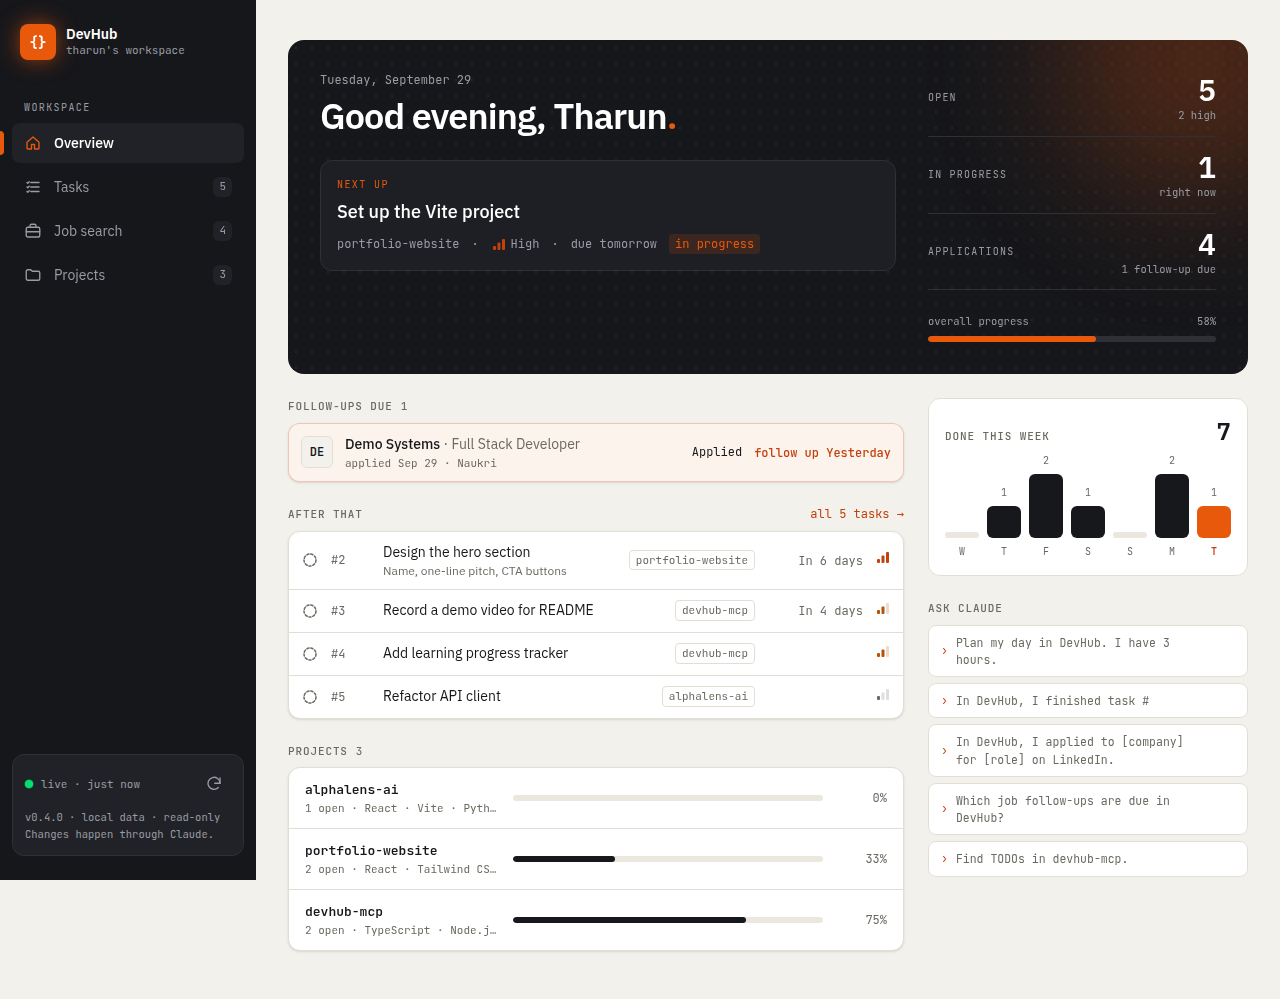
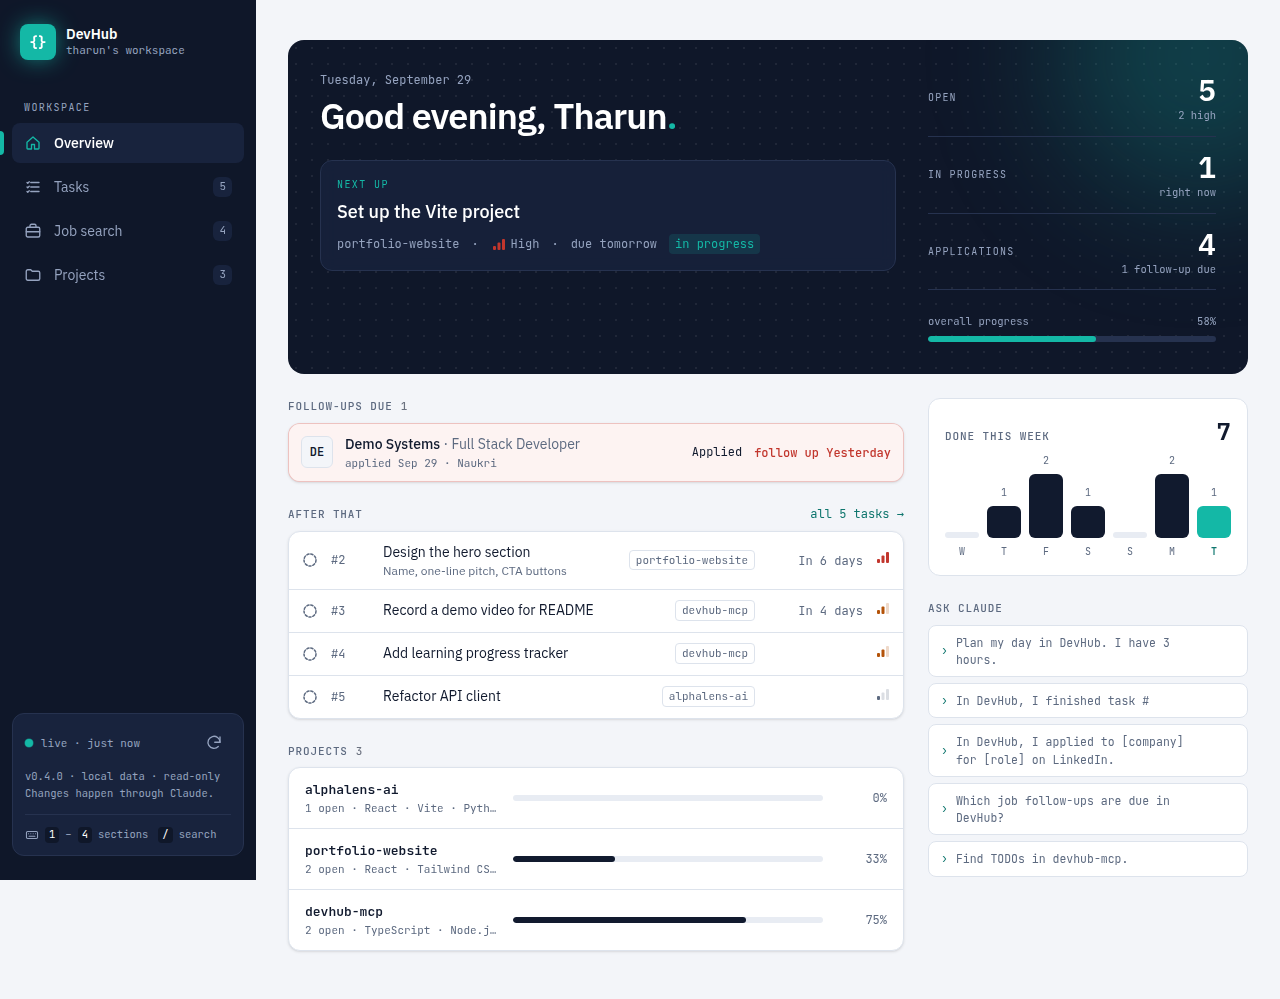
feat: navy and teal theme, task search and keyboard shortcuts
- Midnight-navy sidebar and hero, teal accent, cool light workspace
- Tasks page: search box (title, description or #id) and project filter chips
- Keyboard shortcuts: 1-4 switch sections, / focuses task search, r refreshes

Claude-Session: https://claude.ai/code/session_01KxsoT77UKyQfGDY82P46uu

diff --git a/dashboard/src/components/TaskList.tsx b/dashboard/src/components/TaskList.tsx
@@ -1,6 +1,7 @@
+import { useState } from "react";
 import type { Task, TaskStatus } from "../types";
 import { Due, Empty, Priority, SectionLabel, Tag } from "./ui";
-import { StatusDone, StatusProgress, StatusTodo } from "./icons";
+import { IconSearch, StatusDone, StatusProgress, StatusTodo } from "./icons";
 
 const STATUS_ICON: Record<Exclude<TaskStatus, "archived">, { icon: typeof StatusTodo; color: string }> = {
   todo: { icon: StatusTodo, color: "text-dim" },
@@ -39,21 +40,77 @@ interface Props {
   doneTasks: Task[];
 }
 
-// Issue-tracker style: grouped rows instead of Kanban columns
+// Issue-tracker style: grouped rows, with a search box and project filter chips
 export function TaskList({ pendingTasks, doneTasks }: Props) {
+  const [query, setQuery] = useState("");
+  const [project, setProject] = useState<string | null>(null);
+
+  const projectNames = [...new Set([...pendingTasks, ...doneTasks].map((t) => t.projectName))].sort();
+  const needle = query.trim().toLowerCase();
+  const matches = (task: Task) =>
+    (project === null || task.projectName === project) &&
+    (needle === "" ||
+      task.title.toLowerCase().includes(needle) ||
+      (task.description ?? "").toLowerCase().includes(needle) ||
+      `#${task.id}` === needle);
+
   const groups = [
-    { key: "in_progress", label: "In progress", tasks: pendingTasks.filter((t) => t.status === "in_progress") },
-    { key: "todo", label: "To do", tasks: pendingTasks.filter((t) => t.status === "todo") },
+    { key: "in_progress", label: "In progress", tasks: pendingTasks.filter((t) => t.status === "in_progress" && matches(t)) },
+    { key: "todo", label: "To do", tasks: pendingTasks.filter((t) => t.status === "todo" && matches(t)) },
     {
       key: "done",
       label: "Recently done",
-      tasks: [...doneTasks].sort((a, b) => b.updatedAt.localeCompare(a.updatedAt)).slice(0, 8),
+      tasks: [...doneTasks]
+        .filter(matches)
+        .sort((a, b) => b.updatedAt.localeCompare(a.updatedAt))
+        .slice(0, 8),
     },
   ];
+  const filtering = needle !== "" || project !== null;
 
   return (
     <div className="space-y-6">
-      {groups.map((group) => (
+      <div className="flex flex-col gap-3 sm:flex-row sm:items-center">
+        <label className="relative block sm:w-72">
+          <span className="sr-only">Search tasks</span>
+          <IconSearch className="pointer-events-none absolute top-1/2 left-3 -translate-y-1/2 text-dim" width={16} height={16} />
+          <input
+            id="task-search"
+            type="search"
+            value={query}
+            onChange={(event) => setQuery(event.target.value)}
+            placeholder="Search tasks or #id"
+            className="w-full rounded-lg border border-line bg-panel py-2 pr-3 pl-9 text-sm shadow-sm outline-none placeholder:text-dim focus:border-accent focus:ring-2 focus:ring-accent/20"
+          />
+        </label>
+        <div className="flex flex-wrap gap-1.5" role="group" aria-label="Filter by project">
+          {[null, ...projectNames].map((name) => (
+            <button
+              key={name ?? "all"}
+              type="button"
+              onClick={() => setProject(name)}
+              aria-pressed={project === name}
+              className={`rounded-full border px-3 py-1 font-mono text-[11.5px] transition ${
+                project === name
+                  ? "border-night bg-night text-white"
+                  : "border-line bg-panel text-dim hover:border-ink/30 hover:text-ink"
+              }`}
+            >
+              {name ?? "all projects"}
+            </button>
+          ))}
+        </div>
+      </div>
+
+      {filtering && groups.every((group) => group.tasks.length === 0) && (
+        <div className="rounded-xl border border-dashed border-line bg-panel">
+          <Empty>No tasks match{query ? ` "${query}"` : ""}{project ? ` in ${project}` : ""}.</Empty>
+        </div>
+      )}
+
+      {groups
+        .filter((group) => !filtering || group.tasks.length > 0)
+        .map((group) => (
         <section key={group.key} className="space-y-2">
           <SectionLabel count={group.tasks.length}>{group.label}</SectionLabel>
           <div className="overflow-hidden rounded-xl border border-line bg-panel shadow-sm">

diff --git a/dashboard/src/components/Sidebar.tsx b/dashboard/src/components/Sidebar.tsx
@@ -1,6 +1,6 @@
 import type { ReactNode } from "react";
 import { timeAgo } from "../lib/dates";
-import { IconBriefcase, IconChecklist, IconFolder, IconHome, IconRefresh } from "./icons";
+import { IconBriefcase, IconChecklist, IconFolder, IconHome, IconKeyboard, IconRefresh } from "./icons";
 
 export const SECTIONS = ["overview", "tasks", "jobs", "projects"] as const;
 export type Section = (typeof SECTIONS)[number];
@@ -93,8 +93,8 @@ export function Sidebar({ active, counts, onSelect, loading, lastUpdated, versio
           <div className="flex items-center justify-between">
             <span className="flex items-center gap-2 font-mono text-[11px] text-night-dim">
               <span className="relative flex h-2 w-2">
-                {lastUpdated && <span className="absolute inset-0 animate-ping rounded-full bg-green-400/60" />}
-                <span className={`relative h-2 w-2 rounded-full ${lastUpdated ? "bg-green-400" : "bg-night-dim"}`} />
+                {lastUpdated && <span className="absolute inset-0 animate-ping rounded-full bg-accent/60" />}
+                <span className={`relative h-2 w-2 rounded-full ${lastUpdated ? "bg-accent" : "bg-night-dim"}`} />
               </span>
               {lastUpdated ? `live · ${timeAgo(lastUpdated)}` : "connecting…"}
             </span>
@@ -104,6 +104,11 @@ export function Sidebar({ active, counts, onSelect, loading, lastUpdated, versio
             {version ? `v${version} · ` : ""}local data · read-only
             <br />
             Changes happen through Claude.
+          </p>
+          <p className="mt-3 flex items-center gap-1.5 border-t border-night-line pt-3 font-mono text-[10.5px] text-night-dim">
+            <IconKeyboard width={14} height={14} />
+            <kbd className="rounded bg-night px-1 text-white">1</kbd>–<kbd className="rounded bg-night px-1 text-white">4</kbd> sections
+            <kbd className="ml-1 rounded bg-night px-1 text-white">/</kbd> search
           </p>
         </div>
       </aside>

diff --git a/dashboard/src/index.css b/dashboard/src/index.css
@@ -3,28 +3,28 @@
 @import "tailwindcss";
 
 /*
-  Layout: light working area with two dark anchors — the sidebar and the overview hero.
-  Warm paper neutrals, near-black "night" surfaces, one signal-orange accent.
+  Layout: light working area with two dark anchors, the sidebar and the overview hero.
+  Cool paper neutrals, midnight-navy surfaces, one teal accent.
 */
 :root {
-  --canvas: #f3f1ec;
+  --canvas: #f3f5f9;       /* cool paper */
   --panel: #ffffff;
-  --sunken: #ebe7df;
-  --line: #e3ded4;
-  --ink: #17181c;
-  --dim: #6c6961;
-  --accent: #e8590c;       /* on dark surfaces and for fills */
-  --accent-text: #c2410c;  /* orange text on light surfaces (readable contrast) */
-  --accent-soft: #fdecdf;
+  --sunken: #e8ecf3;
+  --line: #dde3ec;
+  --ink: #111a2e;          /* navy-black text */
+  --dim: #5d6a80;
+  --accent: #14b8a6;       /* teal for fills and on dark surfaces */
+  --accent-text: #0f766e;  /* teal text on light surfaces (readable contrast) */
+  --accent-soft: #d9f5f0;
   --good: #15803d;
   --good-soft: #e3f4e8;
   --warn: #b45309;
-  --bad: #c2410c;
-  --bad-soft: #fcebe1;
-  --night: #16171b;
-  --night-2: #202227;
-  --night-line: #2e3036;
-  --night-dim: #9a9ca4;
+  --bad: #c2362d;
+  --bad-soft: #fcebe9;
+  --night: #0f1729;        /* midnight navy for the sidebar and hero */
+  --night-2: #18233d;
+  --night-line: #26324f;
+  --night-dim: #95a3bf;
   color-scheme: light;
 }
 

diff --git a/dashboard/src/App.tsx b/dashboard/src/App.tsx
@@ -1,4 +1,4 @@
-import { useState } from "react";
+import { useEffect, useState } from "react";
 import { useDashboardData } from "./hooks/useDashboardData";
 import { todayLocal } from "./lib/dates";
 import { Sidebar, type Section } from "./components/Sidebar";
@@ -24,6 +24,24 @@ export default function App() {
     window.history.replaceState(null, "", `#${next}`);
     window.scrollTo({ top: 0 });
   };
+
+  // Keyboard shortcuts: 1-4 switch sections, "/" jumps to task search, "r" refreshes
+  useEffect(() => {
+    const onKey = (event: KeyboardEvent) => {
+      const target = event.target as HTMLElement;
+      if (event.ctrlKey || event.metaKey || event.altKey || target.closest("input, textarea")) return;
+      const index = ["1", "2", "3", "4"].indexOf(event.key);
+      if (index >= 0) select((["overview", "tasks", "jobs", "projects"] as const)[index]);
+      if (event.key === "r") void refresh();
+      if (event.key === "/") {
+        event.preventDefault();
+        select("tasks");
+        window.setTimeout(() => document.getElementById("task-search")?.focus(), 50);
+      }
+    };
+    window.addEventListener("keydown", onKey);
+    return () => window.removeEventListener("keydown", onKey);
+  });
 
   const today = todayLocal();
   const pendingTasks = data?.pendingTasks ?? [];

diff --git a/dashboard/src/components/icons.tsx b/dashboard/src/components/icons.tsx
@@ -142,3 +142,17 @@ export function PriorityBars({ level, ...p }: IconProps & { level: 1 | 2 | 3 }) 
     </svg>
   );
 }
+
+export const IconSearch = (p: IconProps) => (
+  <Base {...p}>
+    <circle cx="11" cy="11" r="6.5" />
+    <path d="M16 16l4.5 4.5" />
+  </Base>
+);
+
+export const IconKeyboard = (p: IconProps) => (
+  <Base {...p}>
+    <rect x="2.5" y="6" width="19" height="12" rx="2" />
+    <path d="M6 10h.01M10 10h.01M14 10h.01M18 10h.01M7 14h10" />
+  </Base>
+);

diff --git a/README.md b/README.md
@@ -27,7 +27,8 @@ As a 2026 full stack developer fresher, I wanted to learn MCP by building someth
 - `find_todos`: scan a project folder for `TODO`, `FIXME`, `HACK`, `XXX` and `BUG` comments
 
 **Dashboard**
-- React + Vite + Tailwind dashboard: dark sidebar and hero on a light workspace, "next up" task, weekly activity chart, issue-tracker task list, job-search stages, project progress, copy-ready Claude prompts
+- React + Vite + Tailwind dashboard: midnight-navy sidebar and hero on a light workspace with a teal accent, "next up" task, weekly activity chart, searchable task list with project filters, job-search stages, project progress, copy-ready Claude prompts
+- Keyboard shortcuts: 1–4 switch sections, / searches tasks, r refreshes
 - Mobile friendly, refreshes itself every 30 seconds and whenever you come back to the tab
 - Served by a read-only local JSON API (`npm run web`)
 
